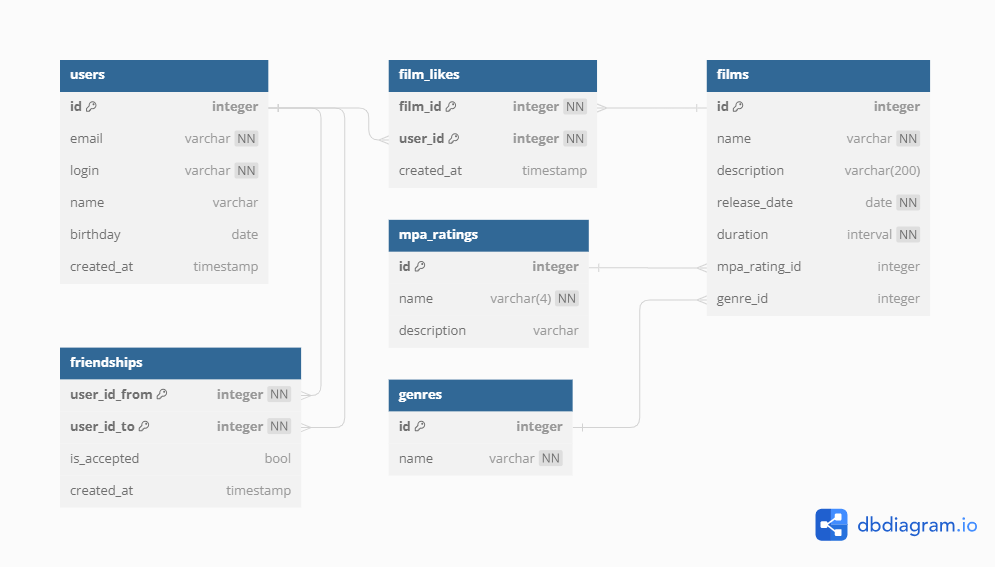
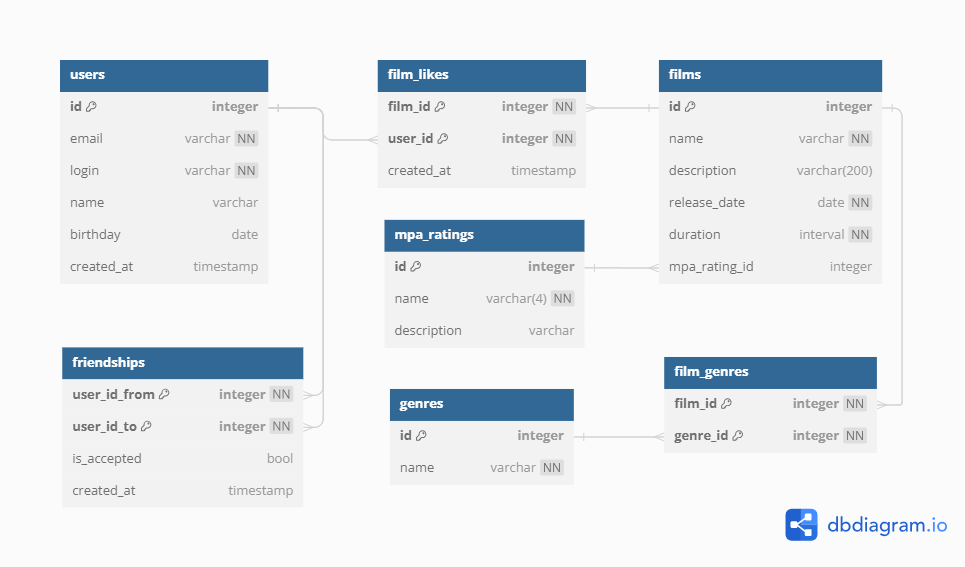
fix: add many-to-many relation between `films` and `genres`

diff --git a/src/main/java/ru/yandex/practicum/filmorate/model/Film.java b/src/main/java/ru/yandex/practicum/filmorate/model/Film.java
@@ -19,6 +19,6 @@ public class Film {
     @NonNull LocalDate releaseDate;
     @JsonSerialize(using = DurationSerializer.class)
     @NonNull Duration duration;
-    // TODO: add genreID and mpaRating fields
+    // TODO: add mpaRating fields
     Set<Integer> likesUserId;
 }

diff --git a/README.md b/README.md
@@ -42,7 +42,14 @@ Table films {
   release_date date [not null]
   duration interval [not null]
   mpa_rating_id integer [ref: > mpa_ratings.id]
-  genre_id integer [ref: > genres.id]
+}
+
+Table film_genres {
+  film_id integer [ref: > films.id, not null]
+  genre_id integer [ref: > genres.id, not null]
+  indexes {
+    (film_id, genre_id) [pk]
+  }
 }
 
 Table film_likes {
